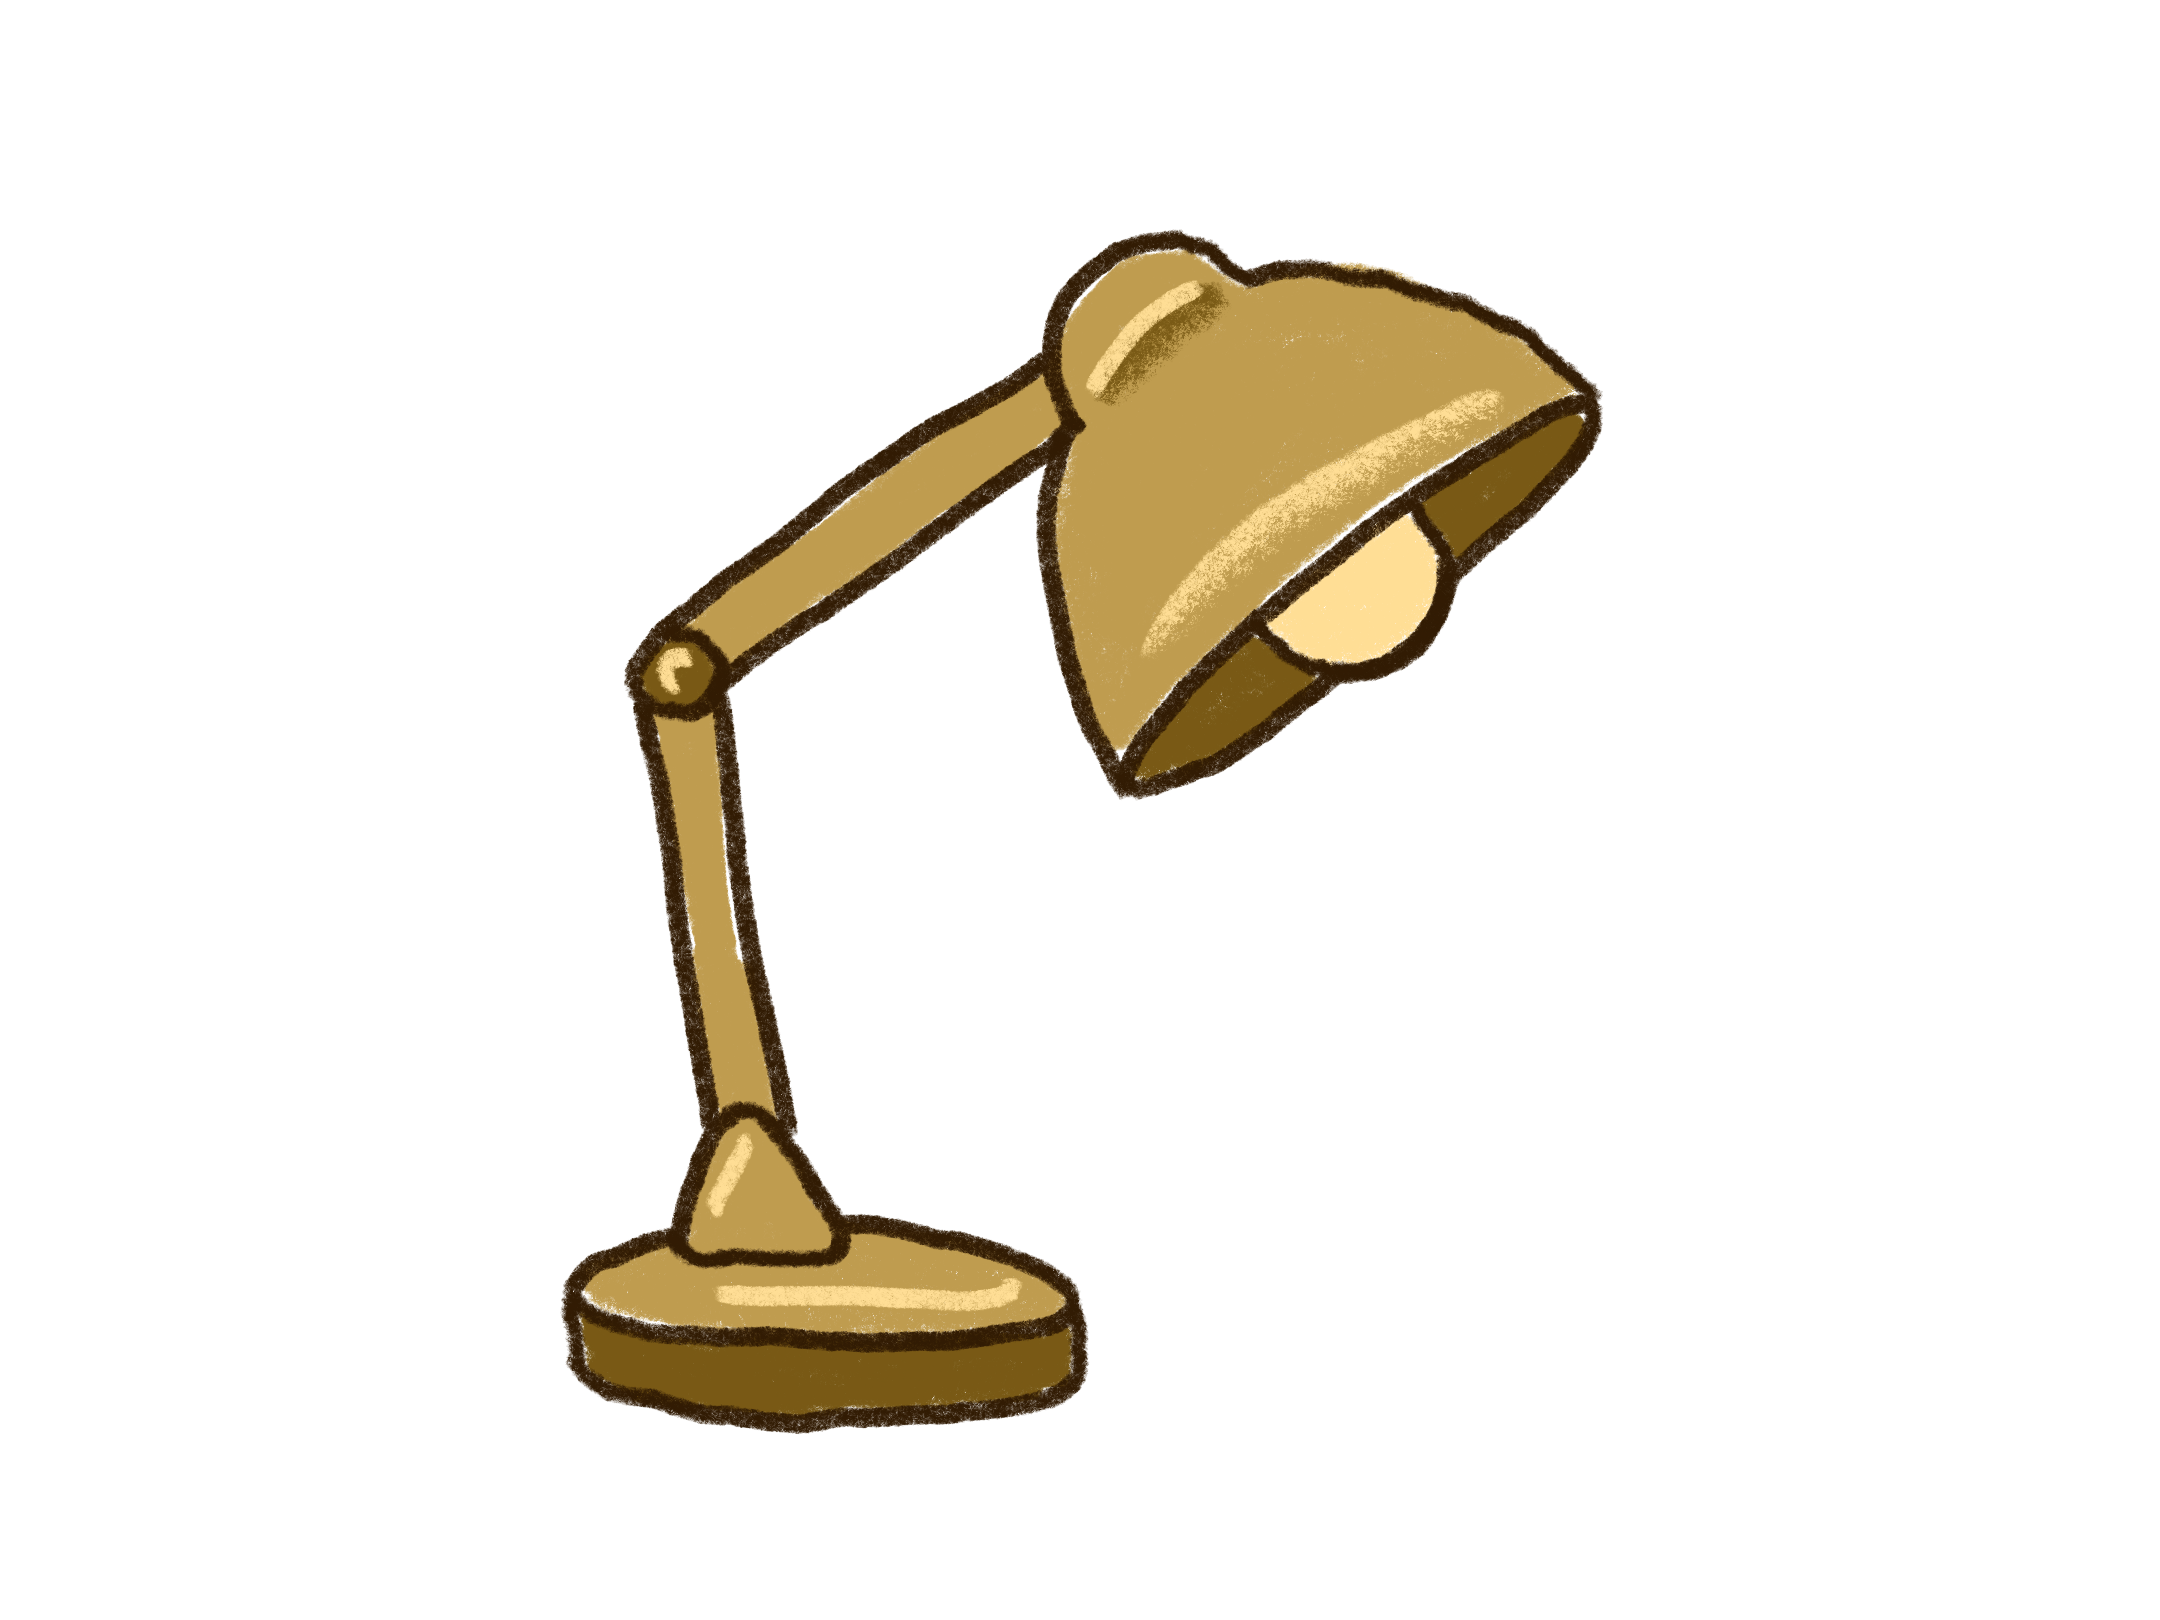
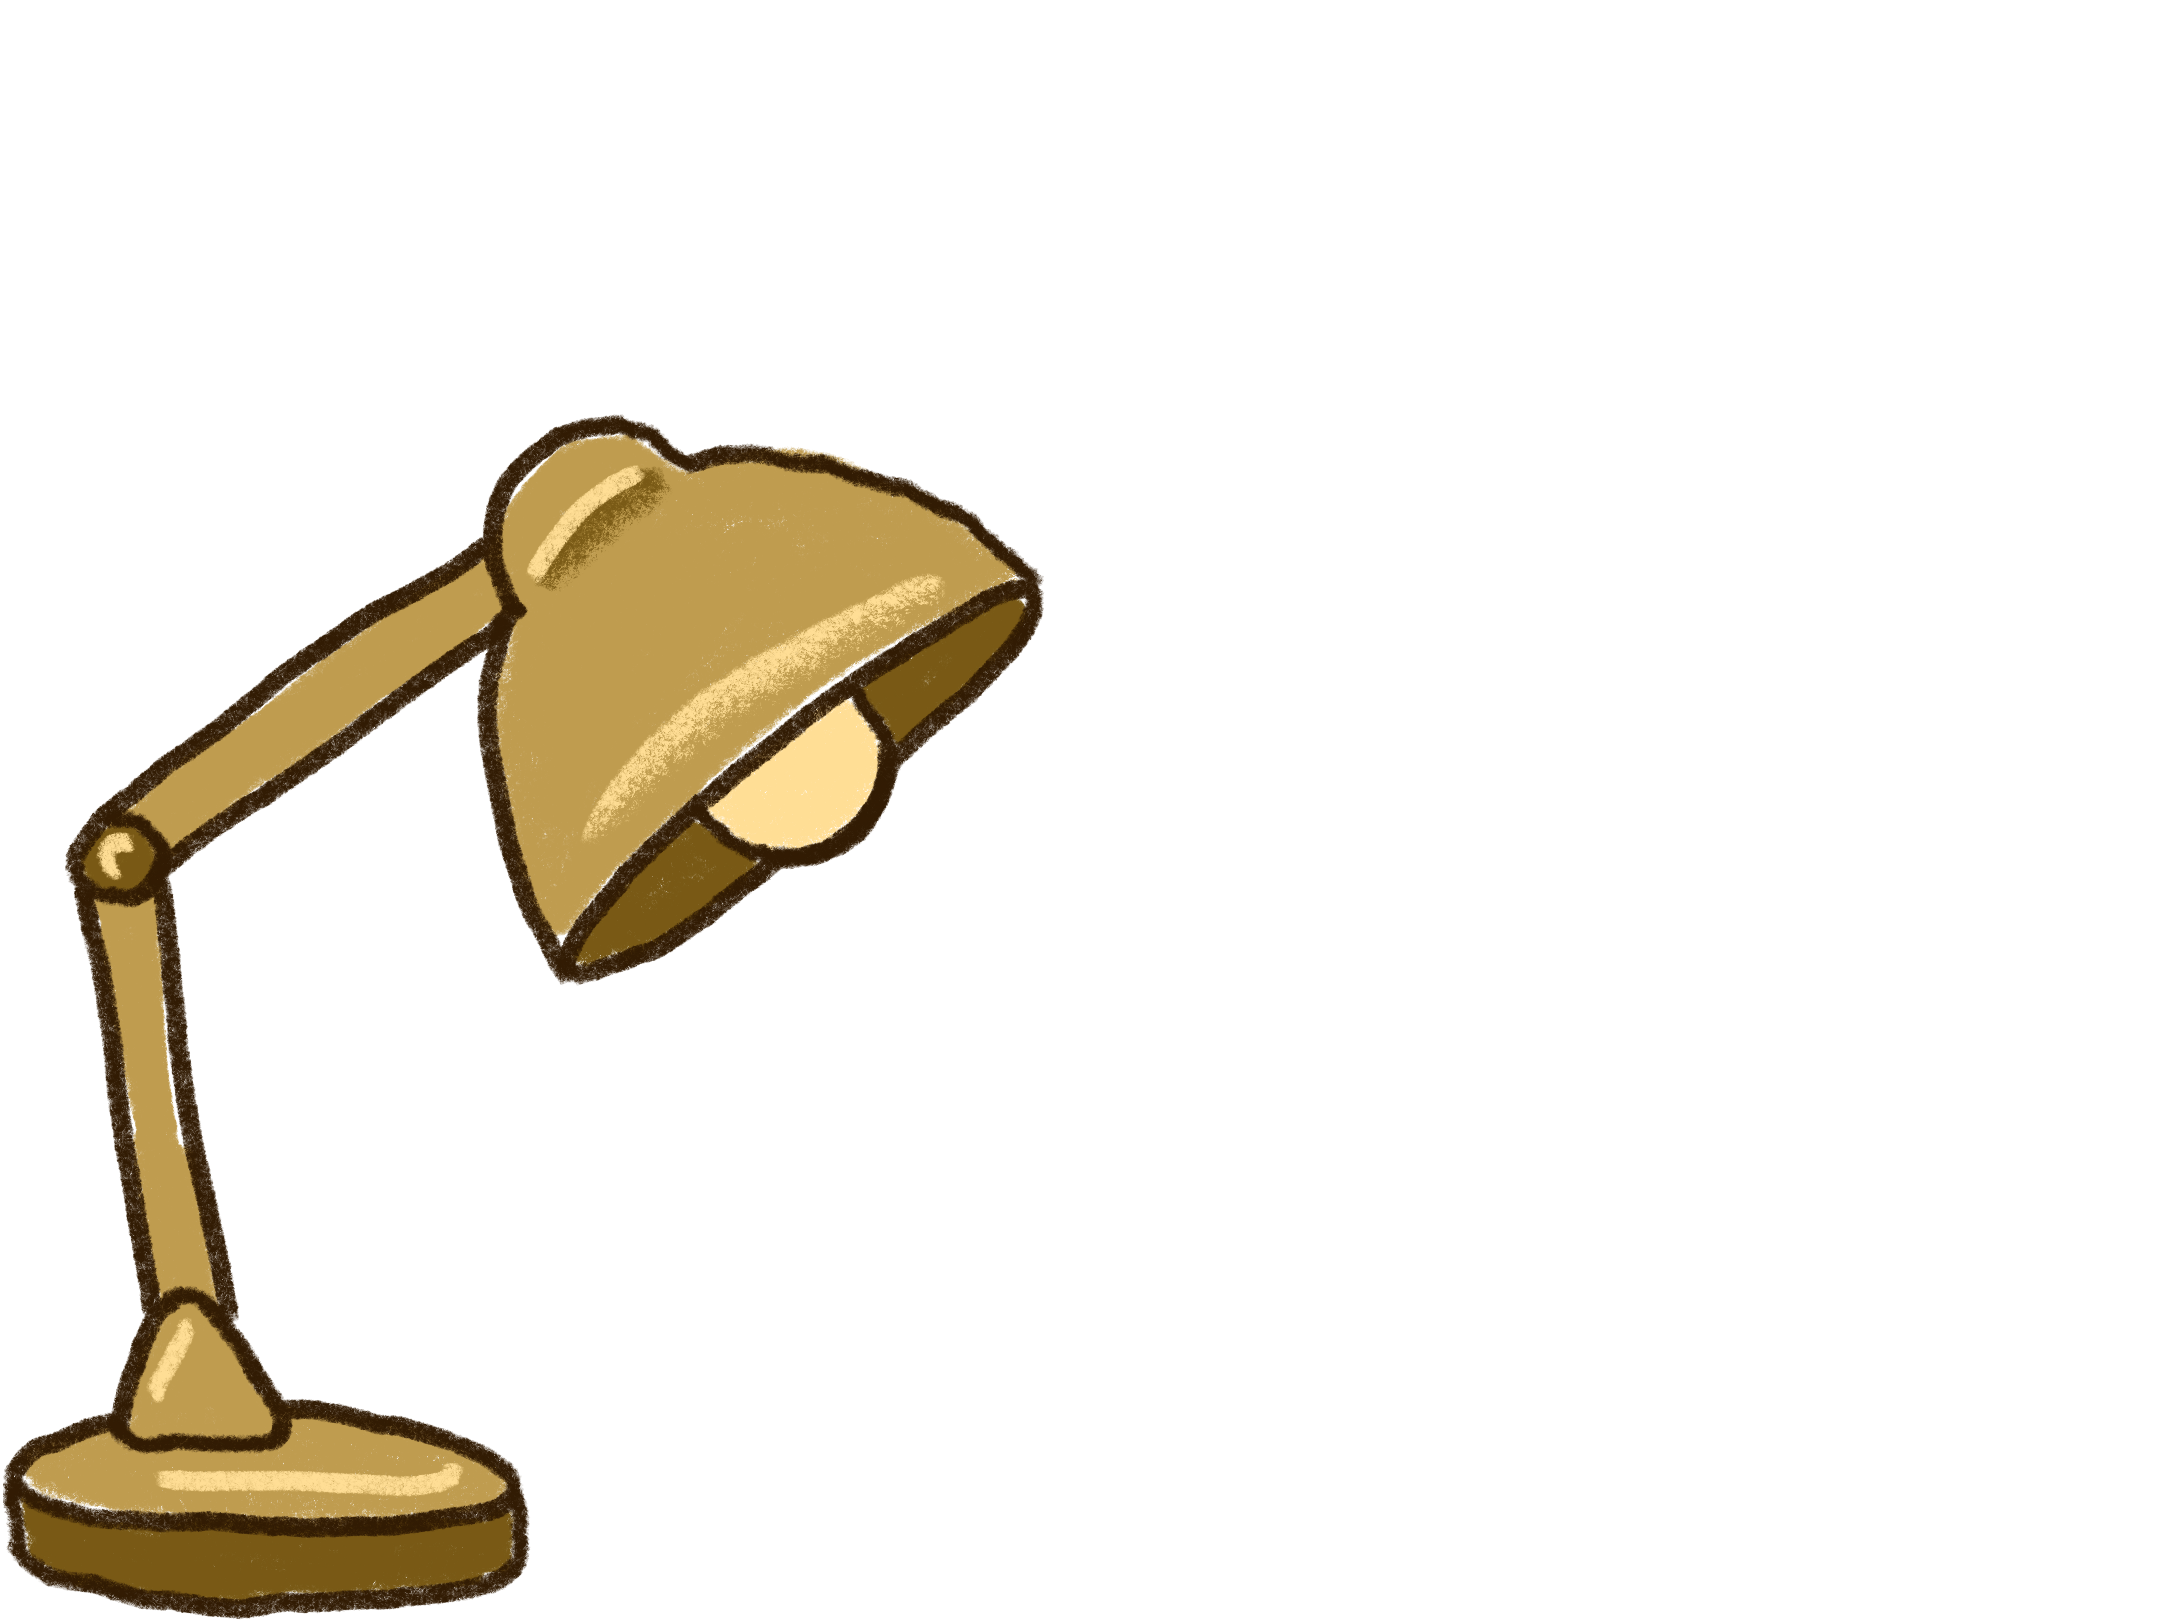
Updated the lamp to scale  with animations!

Changed region(s): [[0.0, 0.1235, 0.7444, 1.0]]

diff --git a/src/app/register_school/application/page.tsx b/src/app/register_school/application/page.tsx
@@ -124,50 +124,29 @@ export default function SchoolRegistrationPage() {
             onSubmit={handleSubmit}
             onSuccess={handleSuccess}
             getProgressImage={(stage: number) => {
-              if (stage < 4) {
-                const imageSize = 48 + (stage - 1) * 50;
-                return (
-                  <div
-                    className="flex items-center justify-center transform-none"
-                    style={{
-                      position: 'relative',
-                      width: `${imageSize}px`,
-                      height: `${imageSize}px`,
-                      transform: `translateY(-${(3 * imageSize) / 4}px)`,
-                    }}
-                  >
-                    <Image
-                      src={`/progress/lamp/${stage - 1}.png`}
-                      alt="Progress"
-                      width={48 + (stage - 1) * 50}
-                      height={48 + (stage - 1) * 50}
-                      className=" h-full w-full"
-                    />
-                  </div>
-                );
-              } else {
-                // The immage is massively different so must make large changes
-                const imageSize = 48 + 170;
-                return (
-                  <div
-                    className="flex items-center justify-center transition-none"
-                    style={{
-                      position: 'relative',
-                      width: `${imageSize}px`,
-                      height: `${imageSize}px`,
-                      transform: `translateY(-${(2.5 * imageSize) / 4}px) translateX(40%)`,
-                    }}
-                  >
-                    <Image
-                      src={`/progress/lamp/3.png`}
-                      alt="Progress"
-                      width={48 + (stage - 1) * 50}
-                      height={48 + (stage - 1) * 50}
-                      className=" h-full w-full"
-                    />
-                  </div>
-                );
-              }
+              // Base size + growth factor based on stage
+              const baseSize = 48;
+              const growthFactor = (stage - 1) * 70;
+              const imageSize = baseSize + growthFactor;
+
+              return (
+                <div
+                  className="transition-all duration-500 ease-in-out"
+                  style={{
+                    width: `${imageSize}px`,
+                    height: `${imageSize}px`,
+                    transform: 'translateX(40%) translateY(10%)',
+                  }}
+                >
+                  <Image
+                    src={`/progress/lamp/${stage - 1}.png`}
+                    alt={`Progress Stage ${stage}`}
+                    width={500}
+                    height={500}
+                    className="h-full w-full object-contain transition-all duration-500"
+                  />
+                </div>
+              );
             }}
             backgroundColor="linear-gradient(180deg, #3D1809 0%, #6F4433 100%)"
             hundredPercentColour="#6F4433"

diff --git a/src/components/shared/ProgressIndicator.tsx b/src/components/shared/ProgressIndicator.tsx
@@ -1,4 +1,4 @@
-import { ReactNode } from 'react';
+import { ReactNode, useEffect, useState } from 'react';
 
 interface ProgressIndicatorProps {
   progress: number;
@@ -16,6 +16,23 @@ const ProgressIndicator: React.FC<ProgressIndicatorProps> = ({
   // Calculate endpoints for safe image placement
   // Creates "stops" at each stage position instead of continuous tracking
   const stagePosition = ((currentView - 1) / (totalViews - 1)) * 100;
+
+  // Track the previous view to handle animations
+  const [prevView, setPrevView] = useState(currentView);
+  const [animating, setAnimating] = useState(false);
+
+  // Handle view changes
+  useEffect(() => {
+    if (currentView !== prevView) {
+      setAnimating(true);
+      const timer = setTimeout(() => {
+        setPrevView(currentView);
+        setAnimating(false);
+      }, 500); // Match this to your transition duration
+
+      return () => clearTimeout(timer);
+    }
+  }, [currentView, prevView]);
 
   return (
     <div className="flex items-center justify-center w-24 sm:w-32 md:w-48">
@@ -49,15 +66,18 @@ const ProgressIndicator: React.FC<ProgressIndicatorProps> = ({
           })}
         </div>
 
-        {/* Progress image - positioned at discrete stops rather than continuous points */}
+        {/* Progress image - positioned at discrete stops with size transition */}
         <div
-          className="absolute top-0 transition-all duration-500 ease-in-out z-10 overflow-visible"
+          className="absolute bottom-0 transition-all duration-500 ease-in-out z-10 overflow-visible"
           style={{
             left: `${stagePosition}%`,
             transform: 'translateX(-50%)',
           }}
         >
-          {getProgressImage(currentView)}
+          {/* This wrapper will handle the size transition */}
+          <div className="transition-all duration-500 ease-in-out transform origin-bottom">
+            {getProgressImage(currentView)}
+          </div>
         </div>
       </div>
     </div>

diff --git a/src/app/apply_to_teach/application/page.tsx b/src/app/apply_to_teach/application/page.tsx
@@ -110,7 +110,8 @@ export default function TeacherApplicationPage() {
                   className="flex items-center justify-center w-12 h-12"
                   style={{
                     position: 'relative',
-                    top: `-24px`,
+                    bottom: `-18px`, // ends up being 36px tall
+                    // transform: 'translateY(50%)',
                   }}
                 >
                   <Image
